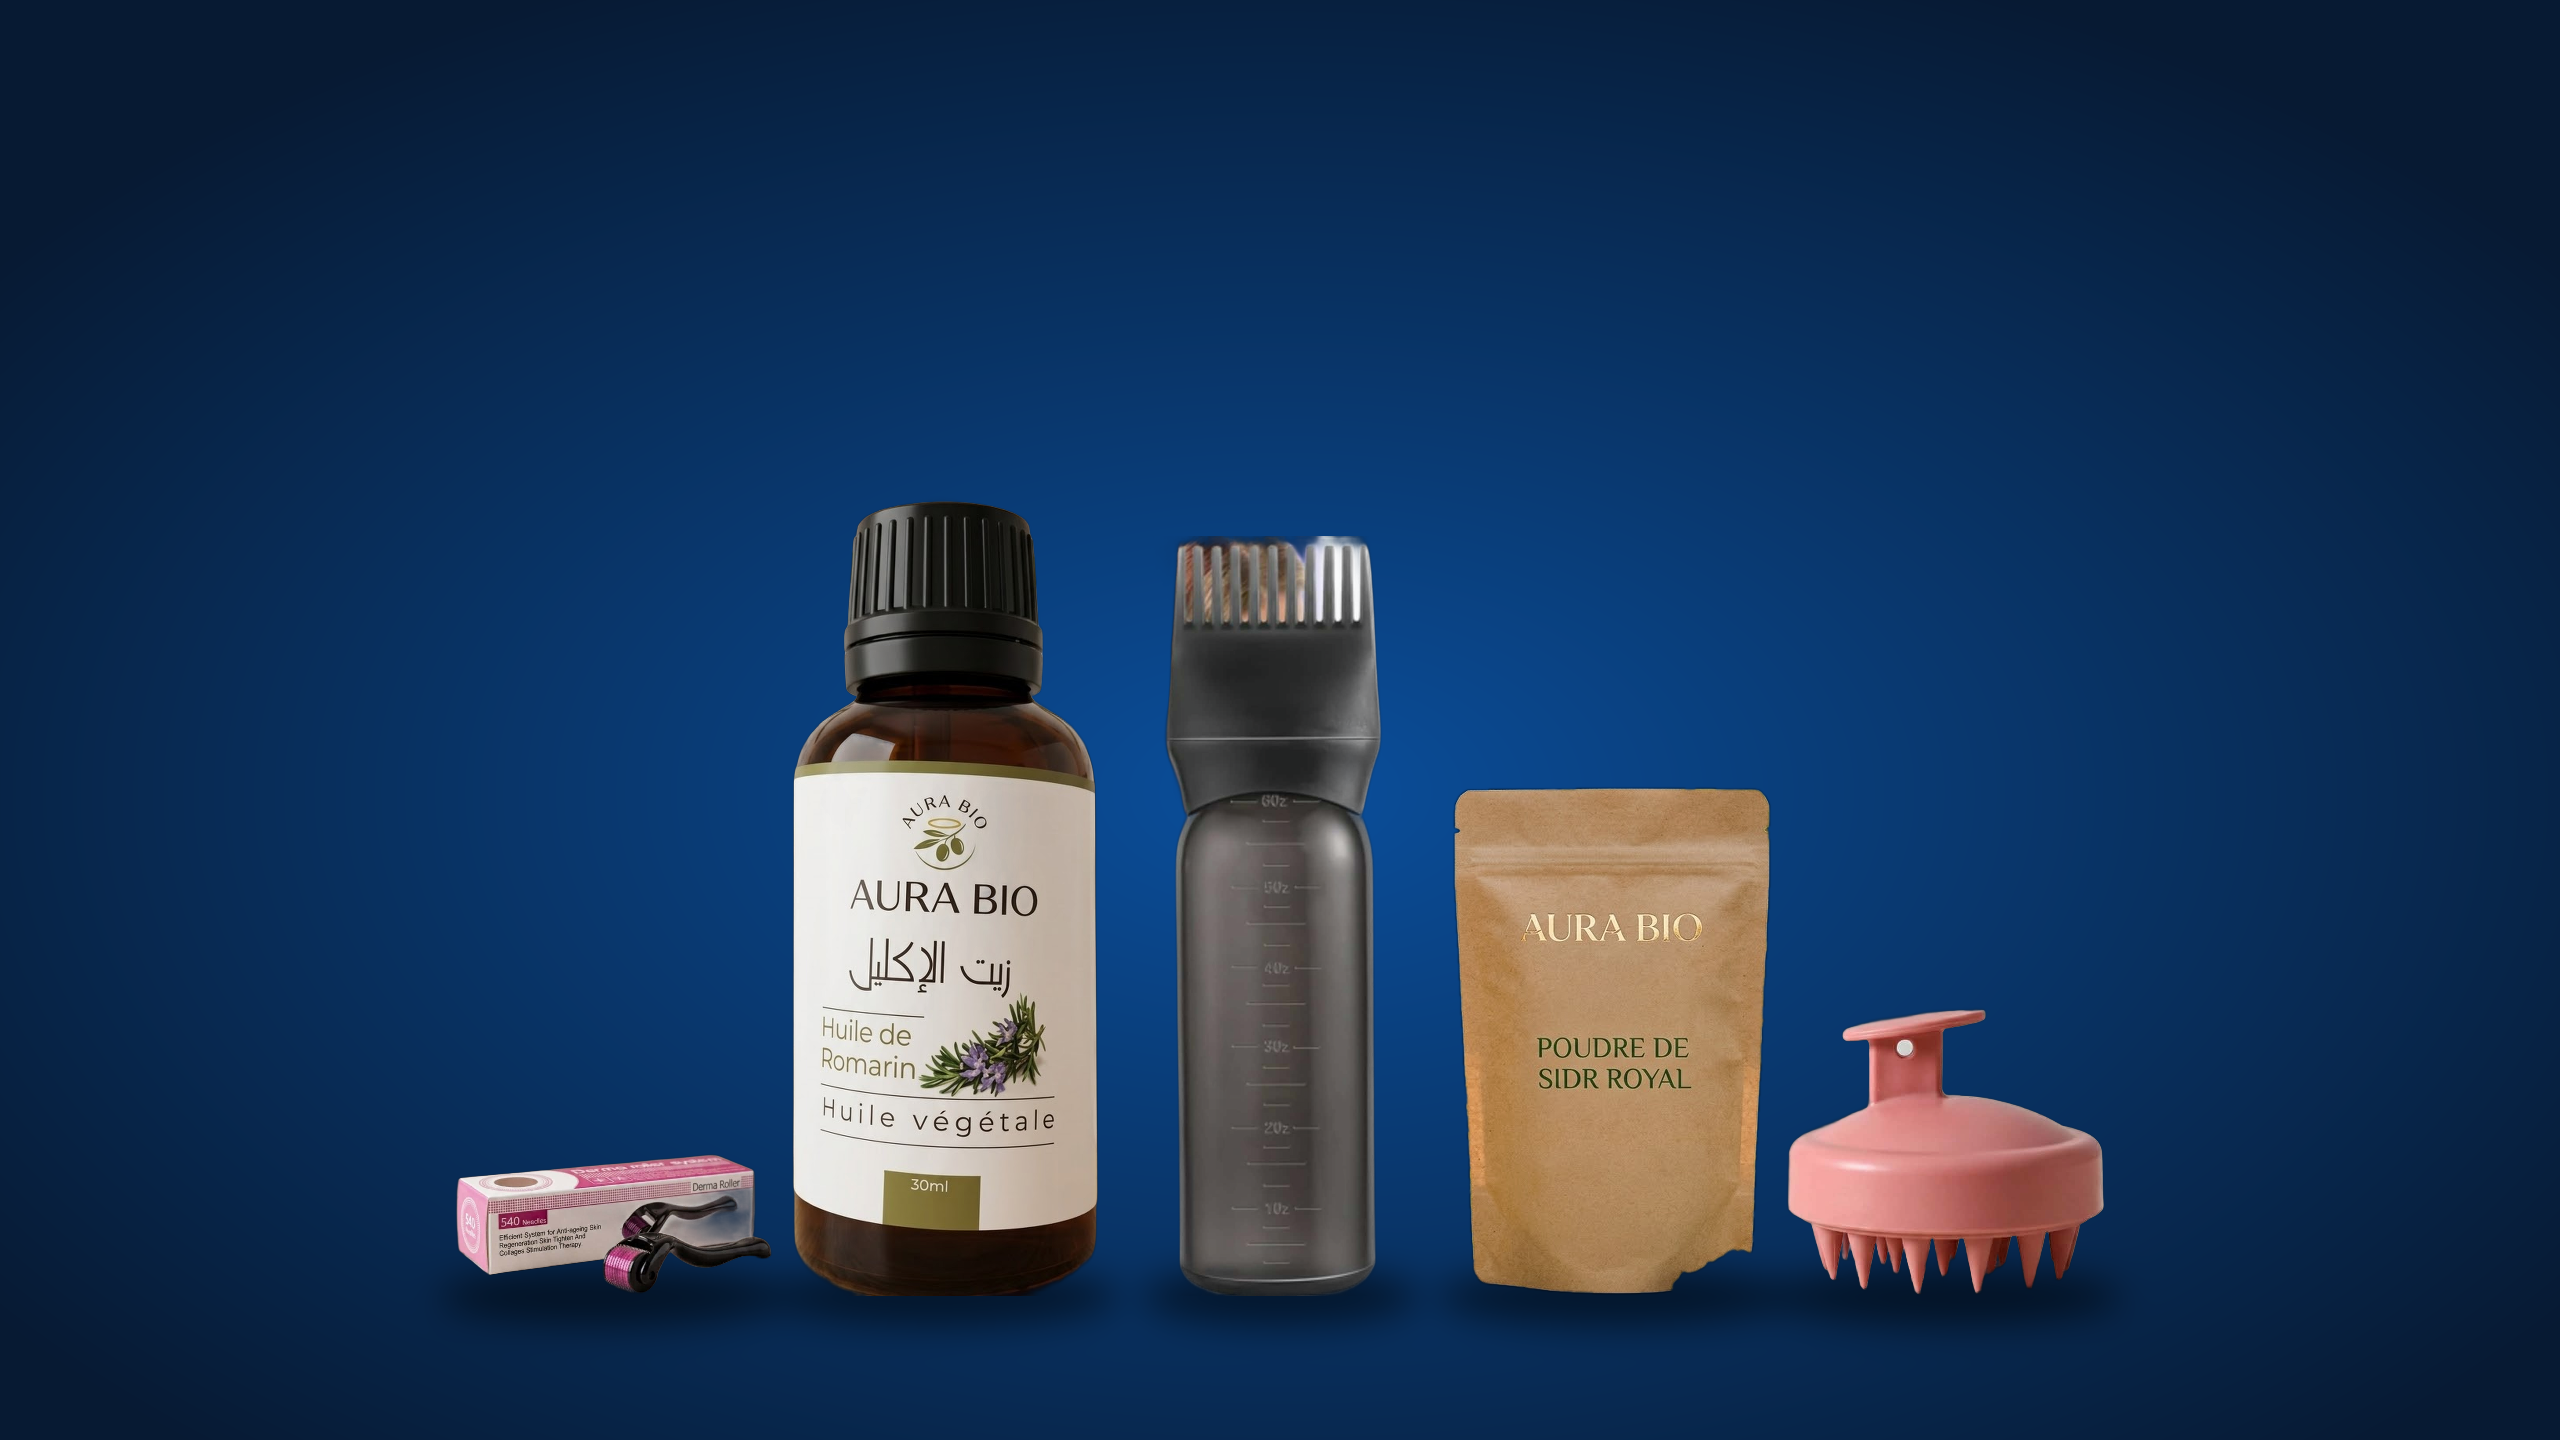
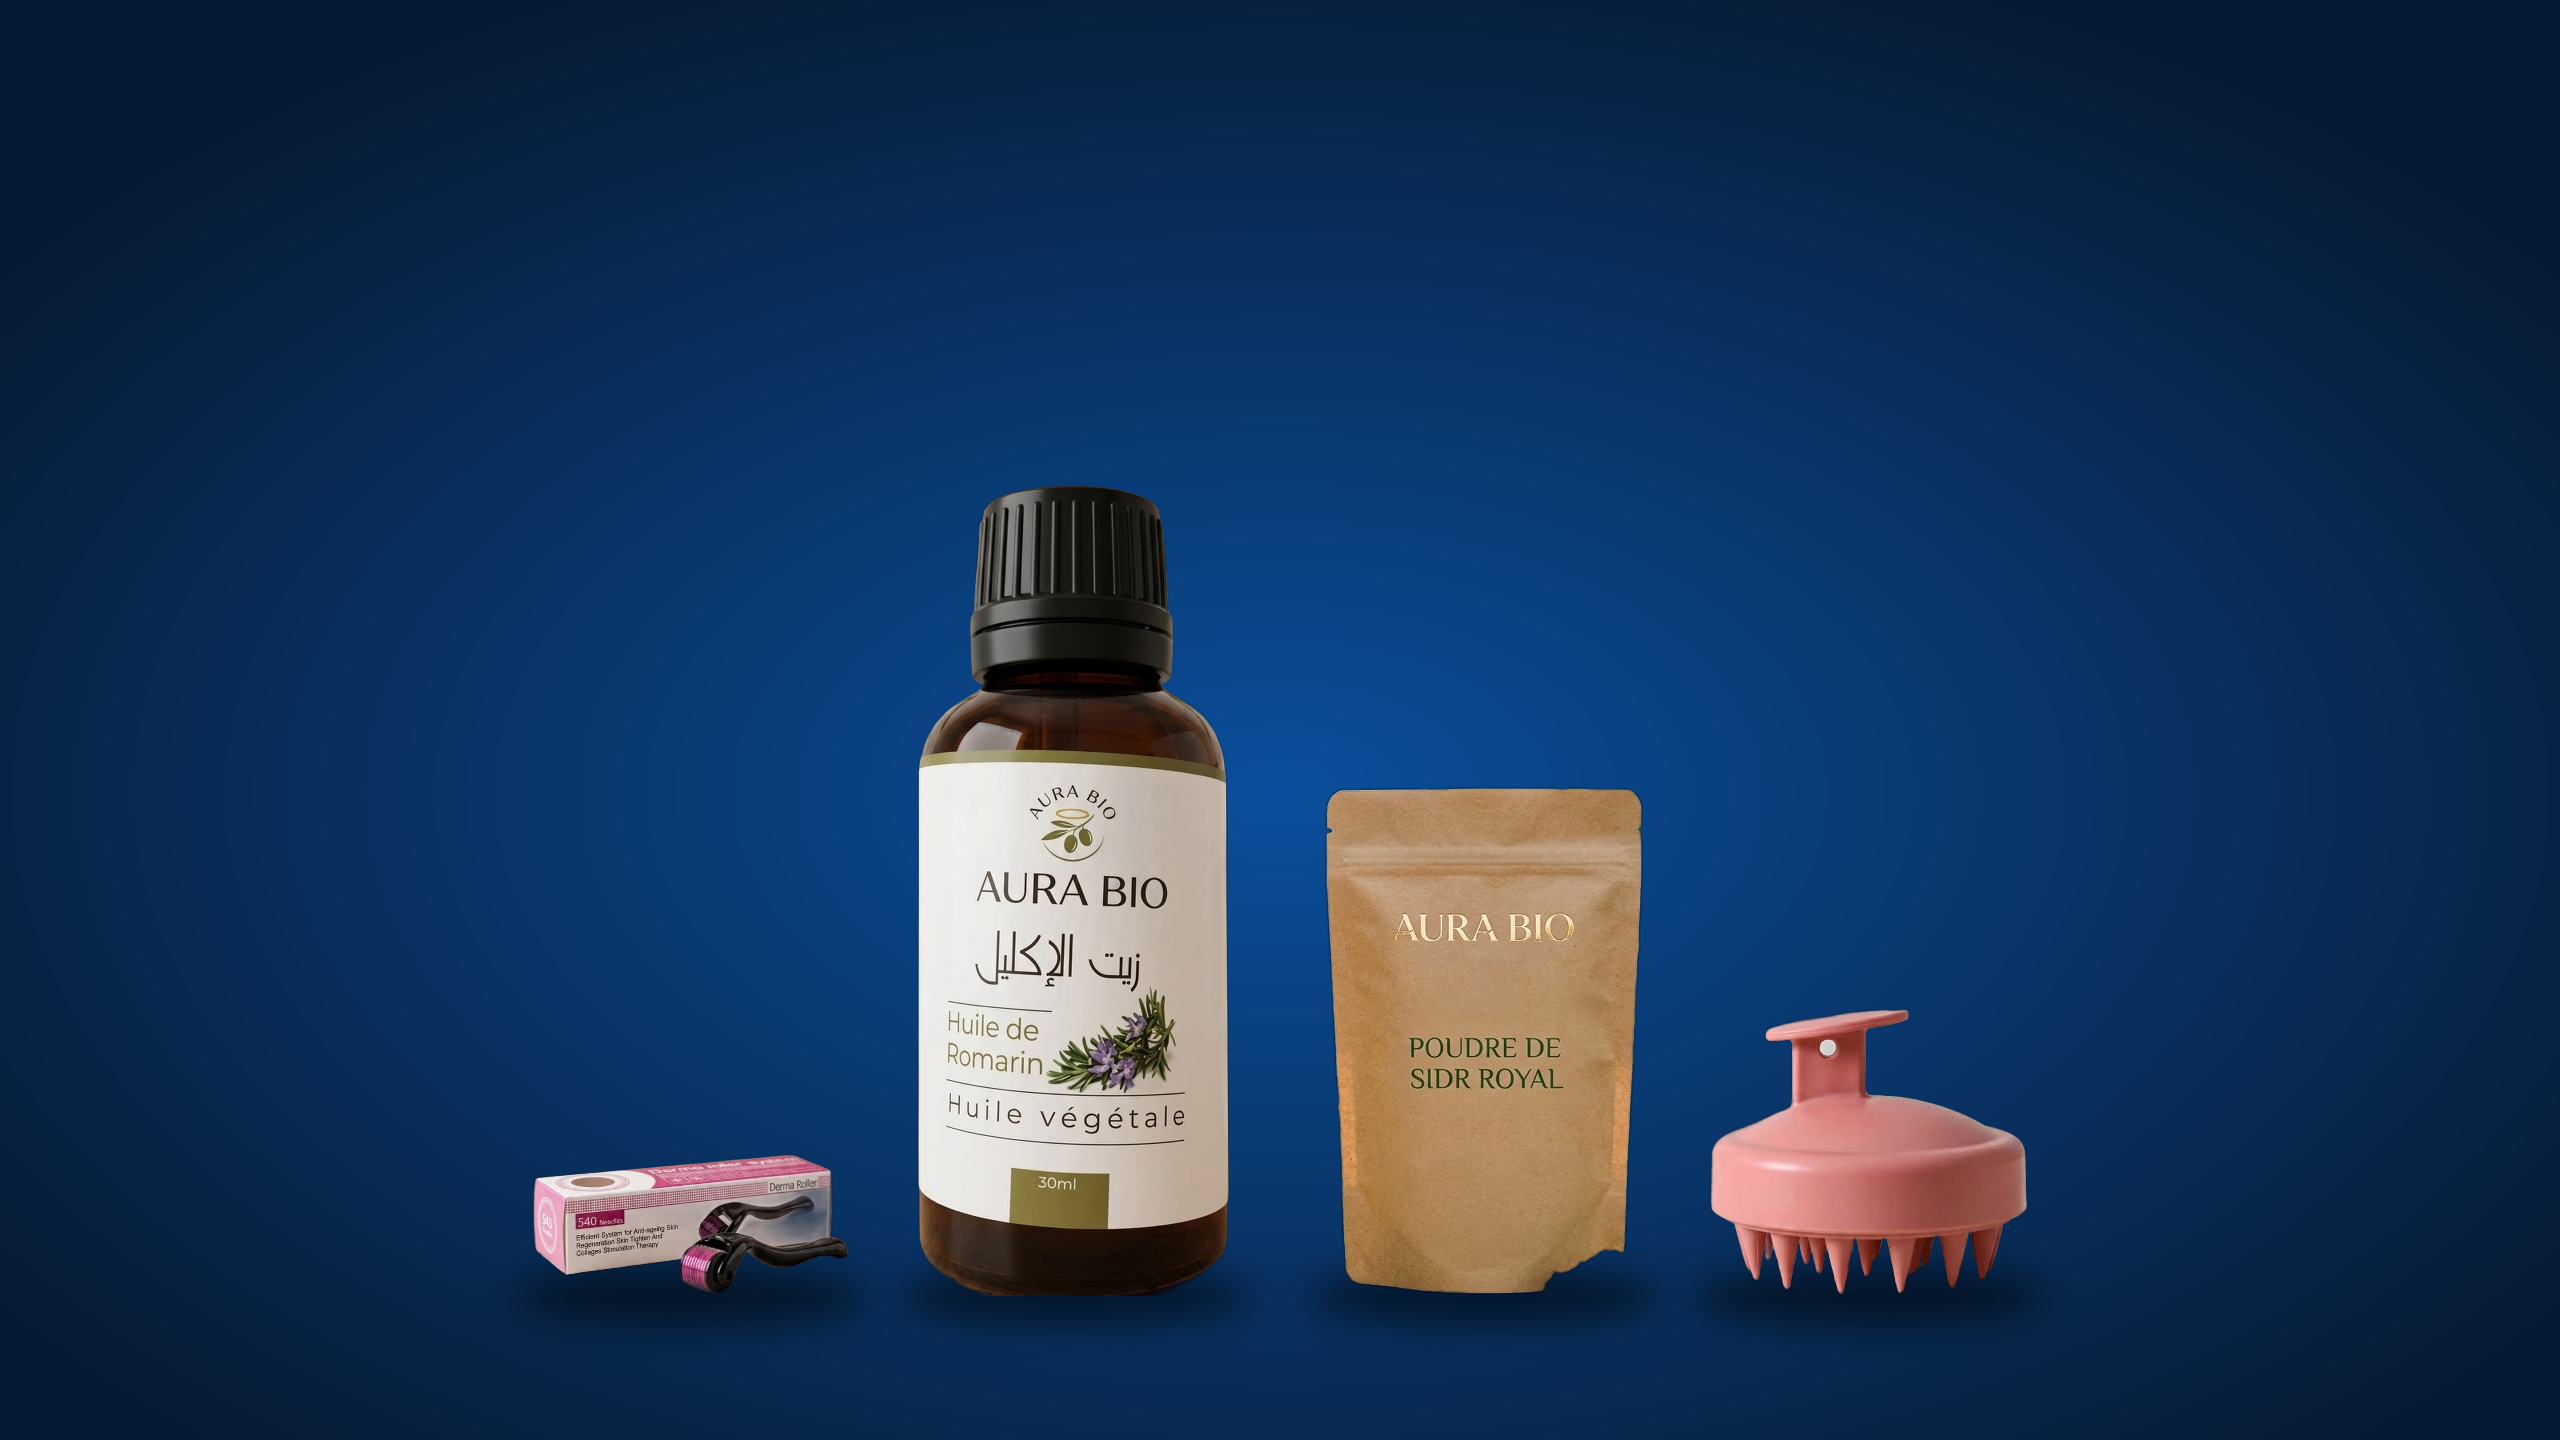
Aura Bio kinetic film: 4-piece pack at 39 DT + 8 DT delivery; VidoGrid prompts
Claude-Session: https://claude.ai/code/session_01U5B5piHRXBKV5TLLQbzs62

Changed region(s): [[0.1562, 0.3125, 0.8438, 0.9375]]

diff --git a/kinetic/aura-bio/spec.js b/kinetic/aura-bio/spec.js
@@ -1,13 +1,13 @@
-// spec.js: AURA BIO, pack pousse des cheveux 5 en 1 pour hommes, 49 DT. A 20 s kinetic promo.
+// spec.js: AURA BIO, pack pousse des cheveux 4 en 1 pour hommes, 39 DT + 8 DT livraison. A 20 s kinetic promo.
 // Every number is a beat at 160 BPM (0.375 s). Music and sounds: make_audio.py; pack picture: make_art.py.
 // Prices and phone come from src/config.ts. No health claims (see CAMPAGNE.md).
 import { Words, Picture, Fly, Hero, Logo } from './blocks.js';
 
 export default {
-  title: 'AURA BIO - Pack 5 en 1',
+  title: 'AURA BIO - Pack 4 en 1',
   bpm: 160, beats: 54, fps: 30,
   palette: { bg: '#071A33', paper: '#FBF4E8', accent: '#D9A441', hot: '#B8621B', ink: '#071A33' },
-  hud: 'AURA BIO  ·  PACK 5 EN 1', hudOut: [51, 53],
+  hud: 'AURA BIO  ·  PACK 4 EN 1', hudOut: [51, 53],
   // the drop of the track is beat 8 (3.0 s); the music stops dead on the logo hit
   music: { file: 'audio/music.wav', offset: 0, stopBeat: 43, gain: -6 },
   sounds: { cash: -2 },
@@ -20,26 +20,26 @@ export default {
       { at: 2, style: 'slam', text: 'MÉRITENT', ground: 'accent' },
       { at: 3, style: 'stack', text: ['UN VRAI', 'RITUEL.'], ground: 'paper', in: 'whipX', fx: 'none' },
       { at: 5, style: 'split', text: ['VOICI', 'LE PACK.'], in: 'whipY', fx: 'punch', big: true },
-      { at: 7, style: 'cut', text: '5 EN 1', color: 'accent', size: 620, rot: -5, fx: 'beat' },
+      { at: 7, style: 'cut', text: '4 EN 1', color: 'accent', size: 620, rot: -5, fx: 'beat' },
     ] }],
-    [Hero, 8, 16, { kicker: 'AURA BIO', title: '5 EN 1', sub: 'pack pousse des cheveux pour hommes', whipOut: [0, 1150, .13] }],
-    // the five pieces: a cut-in on each product with its name
+    [Hero, 8, 16, { kicker: 'AURA BIO', title: '4 EN 1', sub: 'pack pousse des cheveux pour hommes', whipOut: [0, 1150, .13] }],
+    // the four pieces: a cut-in on each product with its name
     [Picture, 16, 24, { src: 'art/pack.png', reveal: 'slash', focus: [.5, .6], tint: .35, weather: 'dust', y: 250,
-      words: [[0.5, 'DERMA ROLLER', 'paper'], [2, 'HUILE DE ROMARIN', 'accent'], [3.5, 'APPLICATEUR', 'paper'], [5, 'SIDR ROYAL', 'accent'], [6.5, 'BROSSE MASSANTE', 'paper']],
-      cutIns: [[0.5, 1.8, [.24, .8]], [2, 1.9, [.37, .6]], [3.5, 1.9, [.5, .62]], [5, 2.0, [.63, .7]], [6.5, 1.7, [.76, .78]]] }],
+      words: [[0.5, 'DERMA ROLLER', 'paper'], [2.5, 'HUILE DE ROMARIN', 'accent'], [4.5, 'SIDR ROYAL', 'paper'], [6.25, 'BROSSE MASSANTE', 'accent']],
+      cutIns: [[0.5, 1.8, [.27, .8]], [2.5, 1.9, [.42, .6]], [4.5, 1.9, [.58, .7]], [6.25, 1.7, [.73, .78]]] }],
     // the routine, flown through
     [Fly, 24, 35, { words: [['ROULE.', 'paper'], ['APPLIQUE.', 'accent'], ['MASSE.', 'paper'], ['RÉPÈTE.', 'accent']] }],
     // the price
     [Words, 35, 43, { shots: [
-      { at: 35, style: 'stack', text: ['VALEUR', '110 DT'], ground: 'paper', in: 'whipX', fx: 'beat' },
+      { at: 35, style: 'stack', text: ['VALEUR', '95 DT'], ground: 'paper', in: 'whipX', fx: 'beat' },
       { at: 37, style: 'cut', text: "AUJOURD'HUI", ground: 'accent', size: 360, rot: 3, fx: 'beat' },
-      { at: 38, style: 'punch3d', text: '49 DT', fx: 'punch', big: true },
-      { at: 40, style: 'cut', text: 'PAIEMENT', ground: 'paper', size: 420, fx: 'beat' },
-      { at: 40.5, style: 'cut', text: 'À LA LIVRAISON.', color: 'accent', size: 300, rot: -3, fx: 'beat' },
+      { at: 38, style: 'punch3d', text: '39 DT', fx: 'punch', big: true },
+      { at: 40, style: 'cut', text: '+ 8 DT', ground: 'paper', size: 460, fx: 'beat' },
+      { at: 40.5, style: 'cut', text: 'LIVRAISON.', color: 'accent', size: 380, rot: -3, fx: 'beat' },
       { at: 41.5, style: 'cut', text: 'COMMANDE', ground: 'accent', size: 440, rot: 4, fx: 'beat' },
       { at: 42, style: 'cut', text: 'MAINTENANT.', color: 'accent', size: 400, rot: -5, rgb: true, fx: 'beat' },
     ], exit: { type: 'flash', at: 42.5 } }],
-    [Logo, 43, 54, { wordmark: 'AURA BIO', tagline: 'Pack pousse des cheveux 5 en 1 · 49 DT', small: 'COMMANDE : 50 500 051  ·  PAIEMENT À LA LIVRAISON' }],
+    [Logo, 43, 54, { wordmark: 'AURA BIO', tagline: 'Pack pousse des cheveux 4 en 1 · 39 DT + 8 DT livraison', small: 'COMMANDE : 50 500 051  ·  PAIEMENT À LA LIVRAISON' }],
   ],
   captions: [],
 };

diff --git a/kinetic/aura-bio/make_art.py b/kinetic/aura-bio/make_art.py
@@ -1,4 +1,4 @@
-# make_art.py: the pack picture for the Picture block (2560x1440), from the cut-out product photos.
+# make_art.py: the pack picture for the Picture block (2560x1440), from the cut-out product photos (4-piece pack).
 import cv2, numpy as np, json, os
 P = os.path.join(os.path.dirname(os.path.abspath(__file__)), '..', '..', 'public', 'products')
 W, H = 2560, 1440
@@ -6,8 +6,8 @@ yy, xx = np.mgrid[0:H, 0:W]
 r = np.sqrt(((xx - W / 2) / W) ** 2 + ((yy - H * .55) / H) ** 2)
 c0, c1 = np.array([0x9C, 0x4F, 0x0B]), np.array([0x33, 0x1A, 0x07])   # BGR: blue centre to navy edge
 img = (c0 * np.clip(1 - r * 1.6, 0, 1)[..., None] + c1 * np.clip(r * 1.6, 0, 1)[..., None]).astype(np.float32)
-items = [('derma-roller.png', 700), ('rosemary-oil.png', 800), ('bottle-black.png', 760), ('sidr-powder.png', 560), ('brush-terracotta.png', 420)]
-slots = [.24, .37, .5, .63, .76]
+items = [('derma-roller.png', 700), ('rosemary-oil.png', 820), ('sidr-powder.png', 600), ('brush-terracotta.png', 460)]
+slots = [.27, .42, .58, .73]
 foc = []
 for (f, h), sx in zip(items, slots):
     im = cv2.imread(os.path.join(P, f), cv2.IMREAD_UNCHANGED).astype(np.float32)

diff --git a/PROMPTS-VIDOGRID.md b/PROMPTS-VIDOGRID.md
@@ -1,0 +1,56 @@
+# Prompts VidoGrid (version gratuite) – Pack AURA BIO 4 en 1
+
+Offre : **4 produits à 39 DT + 8 DT de livraison** (Derma Roller 540, huile de romarin, poudre de sidr royal, brosse de massage).
+
+## Comment faire (gratuit, sans carte)
+
+1. Sur vidogrid.ai → **Create a video** → choisis un modèle marqué gratuit (Veo 3.1 Lite si proposé).
+2. Format **9:16**, durée la plus courte (6–8 s).
+3. Mode **Image → vidéo** : mets en première image la photo du produit (dossier `public/products/` du dépôt, ou tes photos), puis colle le prompt.
+4. Ne coche **pas** la suppression du logo.
+5. Télécharge chaque clip et mets-les dans un dossier Drive partagé par lien (ex. « Aura clips »). Je les intègre au montage.
+
+Les prompts sont en anglais : c'est ce que les modèles comprennent le mieux. Chacun dit « no text, no logos » pour éviter que l'IA invente des écritures ou des marques sur le produit.
+
+---
+
+### 1. Accroche (sans produit) – texte → vidéo
+```
+Vertical 9:16 close-up of a young North African man in his late 20s in a bright bathroom, looking at his hairline in the mirror, slightly worried, then running his fingers through his hair. Soft natural window light, warm tones, shallow depth of field, handheld smartphone feel, realistic. No text, no logos.
+```
+
+### 2. Huile de romarin – image → vidéo (photo : rosemary-oil.png)
+```
+Vertical 9:16 macro product shot. The amber glass bottle of rosemary oil stands on a light stone bathroom counter next to fresh rosemary sprigs. Slow push-in, a single drop of golden oil falls from a glass dropper and catches the light. Warm morning sunlight, soft shadows, premium cosmetic look. Keep the bottle and its label exactly as in the reference. No added text, no logos.
+```
+
+### 3. Derma Roller 540 – image → vidéo (photo : derma-roller.png)
+```
+Vertical 9:16 close-up of a hand holding a derma roller and gently rolling it on a man's scalp along the hair parting, slow and careful movement. Clean bathroom background softly blurred, natural light, realistic skin and hair texture, calm and hygienic feel. No text, no logos.
+```
+
+### 4. Poudre de sidr royal – image → vidéo (photo : sidr-powder.png)
+```
+Vertical 9:16 tabletop shot. The kraft paper pouch of sidr powder sits on a wooden tray; a wooden spoon scoops green sidr powder into a small ceramic bowl, a little water is poured and mixed into a smooth paste. Warm natural light, earthy tones, slow motion, artisanal feel. Keep the pouch exactly as in the reference. No added text, no logos.
+```
+
+### 5. Brosse de massage – image → vidéo (photo : brush-terracotta.png ou brush-pink.png)
+```
+Vertical 9:16 close-up of a man massaging his wet scalp with a soft silicone scalp massager brush in small circular movements under the shower, water droplets and light foam, relaxing mood. Soft diffused light, realistic, slow motion. No text, no logos.
+```
+
+### 6. Le pack complet – image → vidéo (photo : la photo des 4 produits ensemble)
+```
+Vertical 9:16 hero shot of four hair-care products arranged together on a light stone counter: an amber rosemary oil bottle, a kraft pouch of sidr powder, a derma roller in its box and a silicone scalp massager brush. Slow orbiting camera move, soft golden light sweep across the products, clean premium look. Keep every product exactly as in the reference. No added text, no logos.
+```
+
+### 7. Résultat / satisfaction – texte → vidéo
+```
+Vertical 9:16 medium shot of a smiling young North African man in his late 20s, styling his thick hair with his fingers in front of a bathroom mirror, confident and relaxed, warm natural light, realistic, handheld smartphone feel. No text, no logos.
+```
+
+---
+
+**Rappels pour les pubs Meta / TikTok :**
+- Pas de promesse santé (pas de « repousse garantie », pas d'avant/après exagéré).
+- Le plan 7 montre une personne générée par IA : ne la présente pas comme un vrai client.

diff --git a/kinetic/aura-bio/README.md b/kinetic/aura-bio/README.md
@@ -1,4 +1,4 @@
-# AURA BIO, kinetic promo (pack 5 en 1, 49 DT)
+# AURA BIO, kinetic promo (pack 4 en 1, 39 DT + 8 DT livraison)
 
 A 20 s kinetic typography promo made with the `scenario-kinetic-film` skill (`.claude/skills/`).
 160 BPM, 54 beats, French copy, brand colours from `src/theme.ts`. Finished videos: `renders/kinetic/`.
